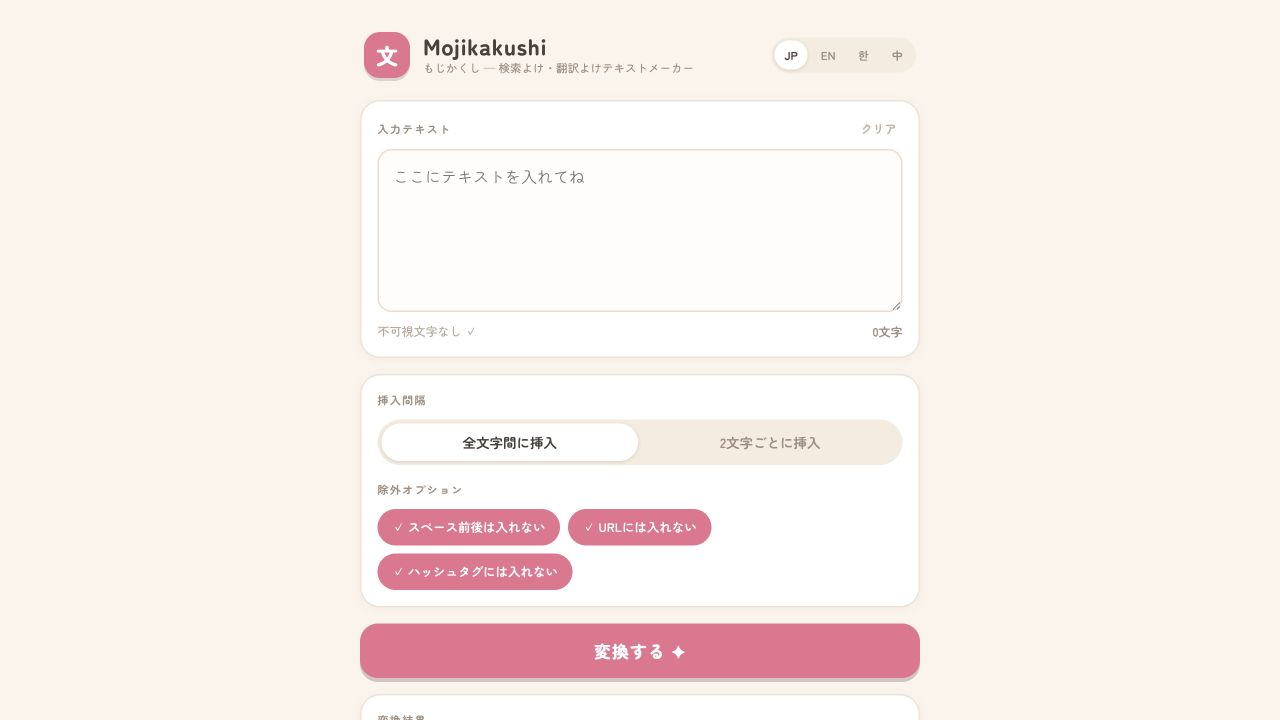
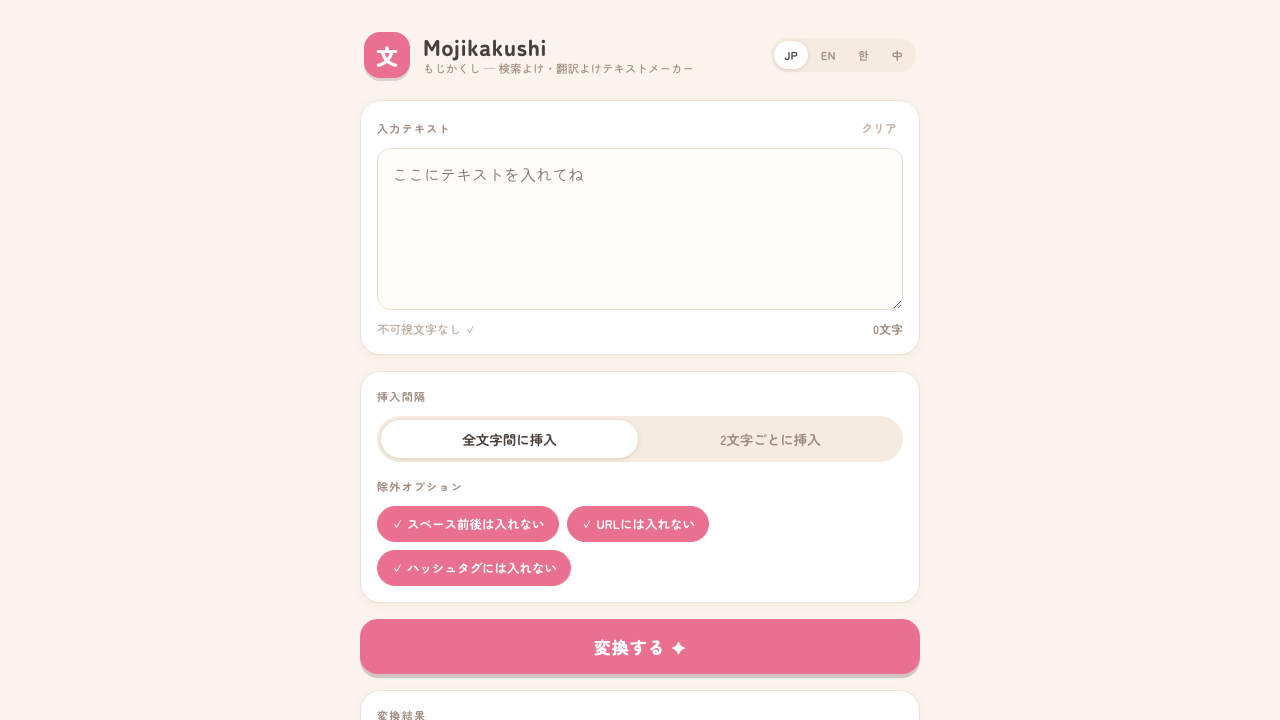
Update support message

diff --git a/Mojikakushi.dc.html b/Mojikakushi.dc.html
@@ -97,7 +97,7 @@
 
     <sc-if value="{{ showSupport }}" hint-placeholder-val="{{ true }}">
       <div style="display: flex; flex-direction: column; gap: 10px; padding-top: 4px;">
-        <div style="font-size: 11px; font-weight: 700; letter-spacing: 0.12em; color: #A08D80; text-align: center;">{{ supportLabel }}</div>
+        <div style="font-size: 11px; font-weight: 700; letter-spacing: 0.02em; line-height: 1.6; color: #A08D80; text-align: center;">{{ supportLabel }}</div>
         <div style="display: flex; gap: 10px;">
           <a href="https://ko-fi.com/nutsfox" target="_blank" rel="noopener" style="flex: 1; display: flex; align-items: center; justify-content: center; gap: 7px; text-decoration: none; background: #FFFFFF; border: 1.5px solid #F0E2D6; border-radius: 16px; padding: 12px 10px; font-size: 13.5px; font-weight: 700; color: #4A3F3A; box-shadow: 0 2px 8px rgba(120, 85, 60, 0.05);" style-hover="border-color: #FF5E5B;"><span style="color: #FF5E5B; font-size: 15px;">♥</span> {{ kofiLabel }}</a>
           <a href="https://paypal.me/TrianonHFFF" target="_blank" rel="noopener" style="flex: 1; display: flex; align-items: center; justify-content: center; gap: 7px; text-decoration: none; background: #FFFFFF; border: 1.5px solid #F0E2D6; border-radius: 16px; padding: 12px 10px; font-size: 13.5px; font-weight: 700; color: #4A3F3A; box-shadow: 0 2px 8px rgba(120, 85, 60, 0.05);" style-hover="border-color: #0070BA;"><span style="color: #0070BA; font-weight: 900;">P</span> {{ paypalLabel }}</a>
@@ -138,7 +138,7 @@ class Component extends DCLogic {
       emptyLabel: 'ここに変換結果が表示されます', resultCount: '{n}文字 ＋ 不可視 {m}個',
       copy: 'コピーする', copied: 'コピーしました ✓',
       noticeLabel: 'ご利用にあたって', noticeText: 'このツールは完全な検索回避・翻訳回避を保証するものではありません。各サービスの利用規約に従って使用してください。',
-      supportLabel: 'このツールが役に立ったら', kofiLabel: 'Ko-fi で支援', paypalLabel: 'PayPal で支援',
+      supportLabel: '便利だったら、今後の小さなツール制作費に投げてもらえるとうれしいです', kofiLabel: 'Ko-fi で支援', paypalLabel: 'PayPal で支援',
       footerText: '入力内容はブラウザ内で処理され、サーバーには送信されません。',
     },
     en: {

diff --git a/index.html b/index.html
@@ -97,7 +97,7 @@
 
     <sc-if value="{{ showSupport }}" hint-placeholder-val="{{ true }}">
       <div style="display: flex; flex-direction: column; gap: 10px; padding-top: 4px;">
-        <div style="font-size: 11px; font-weight: 700; letter-spacing: 0.12em; color: #A08D80; text-align: center;">{{ supportLabel }}</div>
+        <div style="font-size: 11px; font-weight: 700; letter-spacing: 0.02em; line-height: 1.6; color: #A08D80; text-align: center;">{{ supportLabel }}</div>
         <div style="display: flex; gap: 10px;">
           <a href="https://ko-fi.com/nutsfox" target="_blank" rel="noopener" style="flex: 1; display: flex; align-items: center; justify-content: center; gap: 7px; text-decoration: none; background: #FFFFFF; border: 1.5px solid #F0E2D6; border-radius: 16px; padding: 12px 10px; font-size: 13.5px; font-weight: 700; color: #4A3F3A; box-shadow: 0 2px 8px rgba(120, 85, 60, 0.05);" style-hover="border-color: #FF5E5B;"><span style="color: #FF5E5B; font-size: 15px;">♥</span> {{ kofiLabel }}</a>
           <a href="https://paypal.me/TrianonHFFF" target="_blank" rel="noopener" style="flex: 1; display: flex; align-items: center; justify-content: center; gap: 7px; text-decoration: none; background: #FFFFFF; border: 1.5px solid #F0E2D6; border-radius: 16px; padding: 12px 10px; font-size: 13.5px; font-weight: 700; color: #4A3F3A; box-shadow: 0 2px 8px rgba(120, 85, 60, 0.05);" style-hover="border-color: #0070BA;"><span style="color: #0070BA; font-weight: 900;">P</span> {{ paypalLabel }}</a>
@@ -138,7 +138,7 @@ class Component extends DCLogic {
       emptyLabel: 'ここに変換結果が表示されます', resultCount: '{n}文字 ＋ 不可視 {m}個',
       copy: 'コピーする', copied: 'コピーしました ✓',
       noticeLabel: 'ご利用にあたって', noticeText: 'このツールは完全な検索回避・翻訳回避を保証するものではありません。各サービスの利用規約に従って使用してください。',
-      supportLabel: 'このツールが役に立ったら', kofiLabel: 'Ko-fi で支援', paypalLabel: 'PayPal で支援',
+      supportLabel: '便利だったら、今後の小さなツール制作費に投げてもらえるとうれしいです', kofiLabel: 'Ko-fi で支援', paypalLabel: 'PayPal で支援',
       footerText: '入力内容はブラウザ内で処理され、サーバーには送信されません。',
     },
     en: {